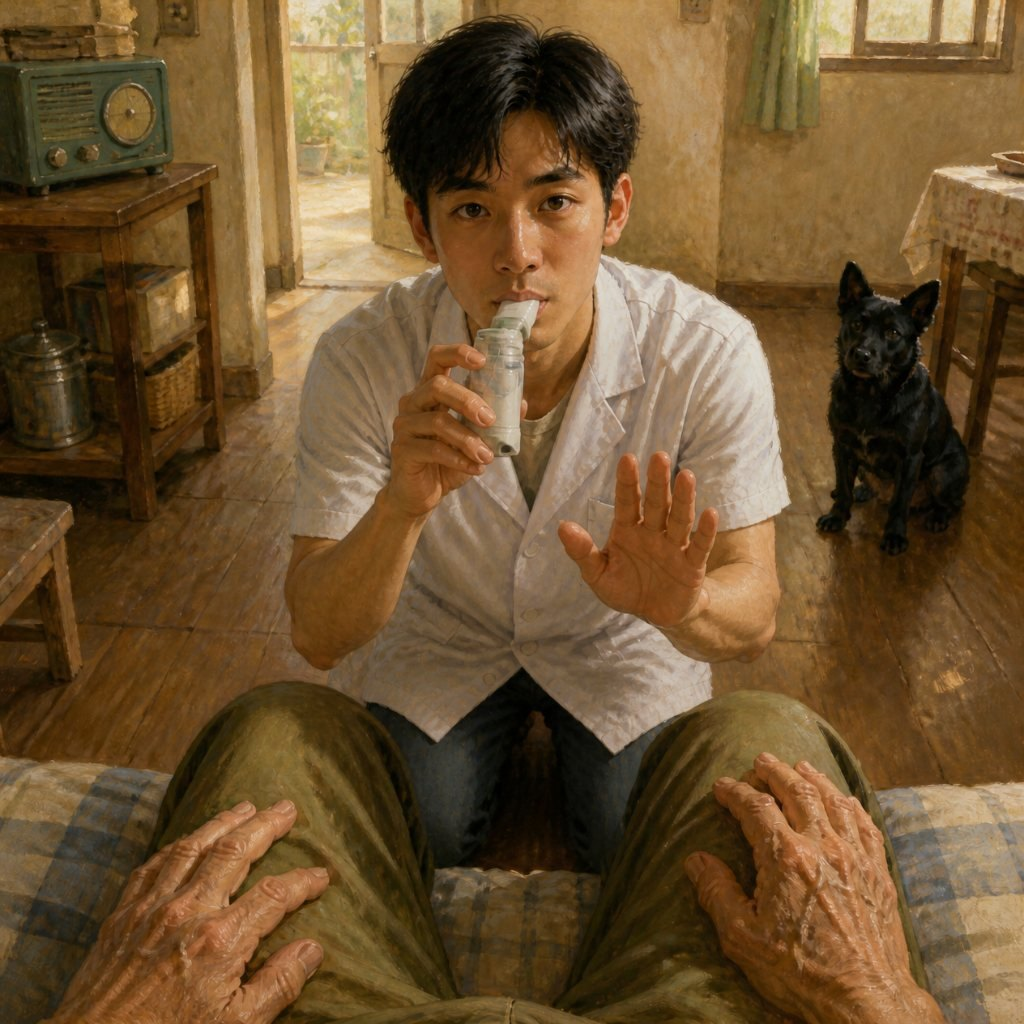
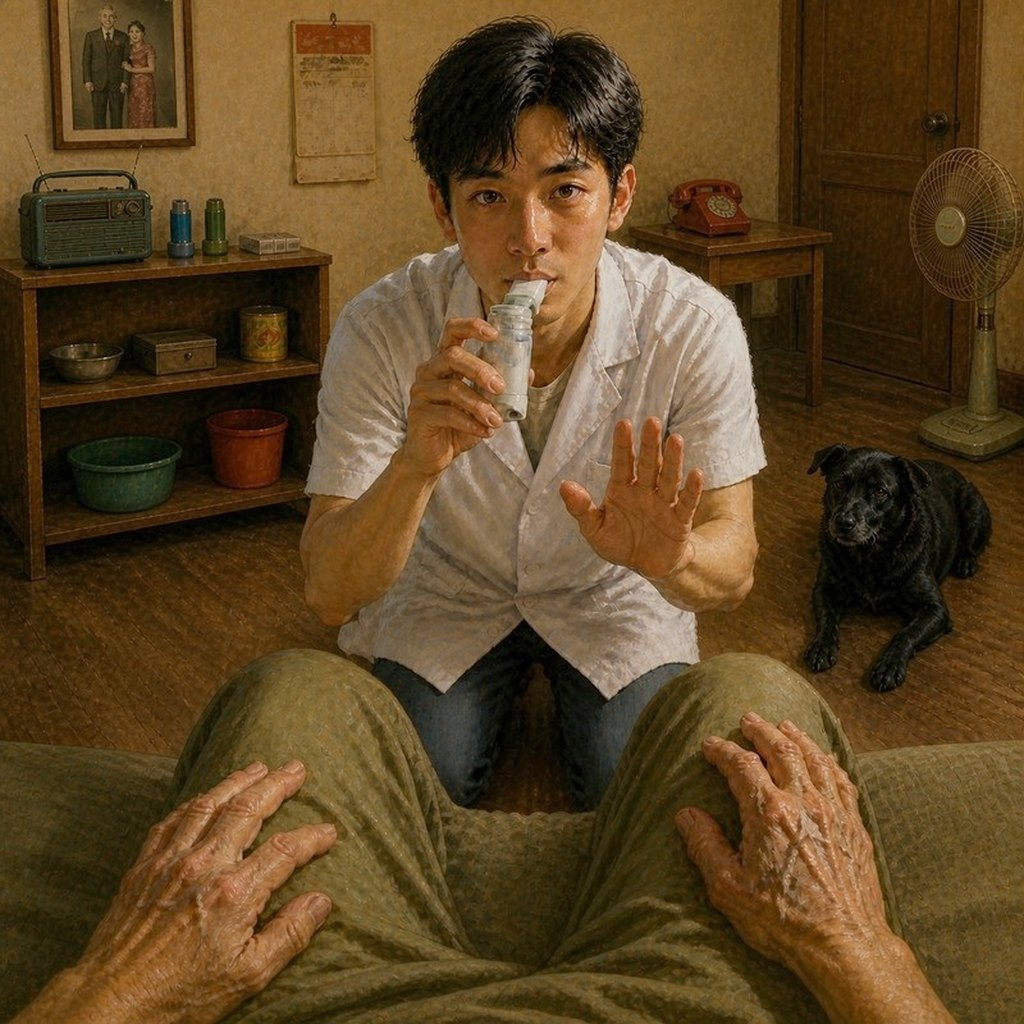
Uncle Lee: home-visit pictures now in Uncle Lee's room with the same dog
Claude-Session: https://claude.ai/code/session_01UCVa5V25LdAQXDwoQvbDCP

diff --git a/UNCLE_LEE_HANDOFF.md b/UNCLE_LEE_HANDOFF.md
@@ -44,7 +44,8 @@
 - รูป: สร้างด้วย Canva (`generate-image` อ้างรูปเดิมเป็นแบบ) → เปิด `https://www.canva.com/M/<id>` ใน Chrome ของเจ้าของงาน ดึงไฟล์เต็มด้วย JS ย่อเป็น JPEG 1024px เก็บเป็น JSON ลง Downloads → stage ไฟล์ → `python3 -I life_tools/unpack_images.py <json> <src/life/img>` แล้วปิดแท็บ
   - รหัสรูปใน Canva ที่ใช้อ้างสไตล์ได้: hands `MAHauD-JYos`, sway `MAHauPd6i78`, letter `MAHauLh6rvM`, busstop `MAHauSPLp2o`, pills_am `MAHaucx9ZWo`, slippers `MAHasMokX8U`, yard_mom `MAHaslLcRNU`
   - แก้รูปเดิมให้ตรงกัน (ทดลองแล้ว 14 พ.ย.): นำรูปจากเว็บเข้า Canva ด้วย `upload-asset-from-url` (เช่น `https://nattasitrx.github.io/pharma_detective/uncle-lee/img/leash.jpg`) แล้วสั่ง `generate-image` โดยใส่รูปเดิมกับรูปอ้างอิงเป็น `imageReferences` และบอกให้คงทุกอย่างไว้ เปลี่ยนเฉพาะจุด ได้ผลดี
-  - รูปนำร่อง: leash ที่เจ้าดำเป็นหมาดำล้วน = `MAHa0MJtDpo` (ยังไม่ได้ใส่ในเกม รอเจ้าของงานอนุญาตดึงไฟล์และเลือกขอบเขต); รูปอ้างอิงเจ้าดำ (pet) = `MAHa0Jntai0`
+  - รูปอ้างอิงใน Canva: เจ้าดำ (pet) = `MAHa0Jntai0`, ห้องลุงจากมุมบนเตียง (kneel ใหม่) = `MAHa0AbGuVg`, กล่องยา (pills_check) = `MAHa0Ag4FBM`; รหัสรูปใหม่ทั้ง 15 รูปอยู่ใน README
+  - ข้อจำกัด: Canva สร้างรูปได้ราว 5 รูปแรกติดกัน จากนั้นราว 10 นาทีต่อรูป; หน้า `canva.com/M/<id>` ให้รูปจัตุรัสกว้าง 800px; Chrome ยอมให้ดาวน์โหลดอัตโนมัติแท็บละหนึ่งไฟล์ ให้รวมทุกรูปเป็น JSON เดียว หรือเปิดแท็บใหม่
 - เสียง: ElevenLabs (flow "Uncle Lee game sounds", id `m5NgxV01VEsbND0gYG2R`) ได้มาแล้วคือ bark, pant, grunt, ring, thud, puff, step; คิวฟรีมักเต็ม
   - เสียงอื่นมาจากชุด ESC-50 บน GitHub เลือกเฉพาะคลิป CC0 (รายชื่อคลิปอยู่ใน README)
   - เบราว์เซอร์ในแอป Claude บันทึกไฟล์ดาวน์โหลดเป็นชื่อสุ่ม `.tmp` ใน Downloads (ดูจากขนาดและเวลา); ไฟล์เสียงไม่โหลดเมื่อเปิดเกมแบบ `file://` ต้องเปิดผ่าน http
@@ -56,15 +57,15 @@
 2.2 บทแก้ทั้งเรื่องตามการอ่านแบบนักอ่าน (13 พ.ย. ดึก, 44 จุด, รายการเทียบเดิม/ใหม่อยู่ที่ `life_tools/script_changes_1113.md`) รอเจ้าของงานอ่านยืนยัน
 2.1 เพลงวิทยุแบบใหม่ (13 พ.ย. ดึก) ส่งตัวอย่างให้เจ้าของงานฟังแล้ว รอความเห็น
 3. เสียงฮึบตอนลุก (`snd/grunt.mp3`) ใส่แล้ว (13 พ.ย. ค่ำ, ElevenLabs, ฮึบที่ 11 ของเทค 20 วินาที) ยังไม่มีใครฟังยืนยัน — ถ้าไม่เข้า ดูเวลาของฮึบอื่นใน README
-4. รูปชุดเภสัชกรเยี่ยมบ้าน 9 รูป (intro, kneel, listen, listen2, drawerask, talkover, teachback, resp_demo, goodbye) ห้องไม่ตรงกับห้องลุงวันอื่น ถ้าจะแก้ต้องวาดใหม่ทั้งชุดรวมรูป door
+4. รูปชุดเภสัชกรเยี่ยมบ้าน 9 รูป แก้ให้เป็นห้องลุงแล้ว (14 พ.ย.) รวมเจ้าดำ 4 รูปและกล่องยา 2 รูป รอเจ้าของงานดูยืนยัน; รูปเดิมอยู่ใน git
 5. ปฏิทินยังมีแต่วงแดง (บทพูดถึงวงน้ำเงินของอาเหมย)
 6. เช้าวันเสาร์–จันทร์ซ้ำกันมาก (พ่นสองพัฟ + กินยาทีละเม็ด) อาจย่อวันอาทิตย์กับจันทร์
-7. ไฟล์ `lee_images_claude_*.json`, `lee_sounds_claude_1.json` และไฟล์ `.tmp` สามไฟล์ (`3f1d9402-…`, `9d33401c-…`, `10533025-…` = เสียงจาก ElevenLabs) ใน Downloads ของเจ้าของงานลบได้
+7. ไฟล์ `lee_images_claude_*.json` (รวม _12, _13 ของ 14 พ.ย.), `lee_sounds_claude_1.json` และไฟล์ `.tmp` สามไฟล์ (`3f1d9402-…`, `9d33401c-…`, `10533025-…` = เสียงจาก ElevenLabs) ใน Downloads ของเจ้าของงานลบได้
 
 ## ผลตรวจสามมุม (13 พ.ย.) — สถานะ
 - แก้แล้ว (14 พ.ย.): ตัวหนังสือ "แตะเพื่อไปต่อ" ปุ่มพักและปุ่มเลือกวันใหญ่ขึ้น; หน้าเครดิต; ปุ่มเปิด/ปิดเสียงในหน้าพัก; วันเปิดทีละวัน (`?all=1` เปิดทุกวันสำหรับอาจารย์); บอกเวลาโดยประมาณของแต่ละวัน; แป้นพิมพ์ Space/Enter/เลข 1–9; ซูมได้
 - ยังไม่ได้แก้: เกมมีแต่ภาษาไทย (เคส A/C/D มีจีน อังกฤษ ไทย); วันศุกร์ยาวกว่าวันอื่น 3–4 เท่า (แค่บอกเวลาไว้); รูปไม่มีคำบรรยาย
-- ภาพที่ยังไม่ตรงกัน: ห้องชุดเภสัชกรเยี่ยมบ้าน (ข้อ 4); เจ้าดำไม่ใช่ตัวเดียวกัน (leash, stairs, stairs_am_dog มีปากสีน้ำตาล; ชุดเยี่ยมบ้านเป็นหมาหูตั้ง); กล่องยามีสี่แบบ (pills_tue/pills_thu 14 ช่อง, pills_check 7 ช่อง, pills_am 4 ช่อง, fillbox/chart สีรุ้ง) บทพูดว่าเจ็ดช่อง; โต๊ะโทรศัพท์ในรูป letter ไม่ตรงกับ phone
+- ภาพที่ยังไม่ตรงกัน: โต๊ะโทรศัพท์ในรูป letter ไม่ตรงกับ phone; อาเหมยในรูป amei_cry ดูแก่กว่า 41; มุมกล้องปนกัน (ไม่แนะนำให้แก้)
 - เว็บรวม (ไม่ได้แตะ): PIN อาจารย์อ่านได้จากช่องทางสาธารณะ; ช่องส่งผลการเล่นไม่จำกัดจำนวน; branch source มีคีย์ทดสอบในไฟล์ทดสอบ ควรแน่ใจว่าไม่ตรงกับคีย์จริง
 
 ## ข้อควรระวัง

diff --git a/README.md b/README.md
@@ -463,3 +463,24 @@ From the art reviewer's and the player's findings; pictures themselves are a sep
 - `#txt` is `aria-live="polite"`; pause and day buttons have labels. Pictures still have no alt text.
 Not changed: Thai is still the only language; Friday is as long as before.
 Checked: play4 (15 runs, no errors), resume (6 cases), and a manual pass on a 360x640 screen.
+
+### Pictures made consistent (14 Nov 2026, early morning)
+Method: each current picture was imported into the owner's Canva from the public site (`upload-asset-from-url`),
+then `generate-image` was asked to edit it with reference pictures (keep everything, change one thing). Files were
+taken from the Canva media pages in the owner's Chrome and unpacked like before. Canva gives 800 px for square
+pictures there, so the square ones are 800 px enlarged to 1024.
+- Dog: `leash`, `stairs`, `stairs_am_dog`, `outside` now show the same all-black, floppy-eared dog as the room
+  pictures (reference `pet`). In `stairs` the dog now sits.
+- Pill box: `fillbox` and `chart` now show the clear box with two rows of seven, as in `pills_tue`, `pills_thu`,
+  `pills_check`. (The review first said these were 7-slot and 4-slot boxes; at full size they are the same 2x7 box.)
+- Home visit: `intro`, `kneel`, `listen`, `listen2`, `drawerask`, `talkover`, `teachback`, `resp_demo`, `goodbye`
+  now take place in Uncle Lee's room as in `door` (wedding photo, calendar, shelf with the radio, red telephone, fan,
+  dark door, green blanket) with the same dog. People and poses were kept; faces changed slightly. The new set came
+  out darker, so a gamma of 0.82 was applied to sit next to `door`. `goodbye` opens onto a dim corridor, not a garden.
+- Canva ids of the new pictures: leash MAHa0MJtDpo, stairs MAHa0OpQwq8, stairs_am_dog MAHa0ESI-ek, outside
+  MAHa0EC4XxA, fillbox MAHa0Oqdyto, chart MAHa0E78G7c, kneel MAHa0AbGuVg, intro MAHa0DzMTb8, listen MAHa0Jp7ukY,
+  listen2 MAHa0Dm6OHM, drawerask MAHa0JaqRMc, talkover MAHa0LirZjg, teachback MAHa0Dwe-6I, resp_demo MAHa0erzCBU,
+  goodbye MAHa0ZYUtKI. The old pictures are in git history (before commit "consistent dog and pill box pictures").
+- Limits met: Canva image generation cools down to about one picture every ten minutes after the first five;
+  Chrome allows one automatic download per tab, so the second file was saved from a new tab.
+Not done: `letter` (the desk differs from `phone`), Ah-Mei's age in `amei_cry`, mixed points of view.
